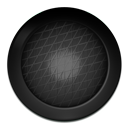
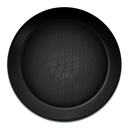
offline state visualization

Changed region(s): [[0.3438, 0.375, 0.6562, 0.6562]]

diff --git a/public/stylesheets/shoutbox.css b/public/stylesheets/shoutbox.css
@@ -606,7 +606,7 @@ html {
 }
 /* line 79, ../../views/stylesheets/partials/_groups.scss */
 #groups ul h3:before {
-  background: url('../images/traffic-lights-aba2b5672e.png') 50% -684px no-repeat;
+  background: url('../images/traffic-lights-b8f023a746.png') 50% -684px no-repeat;
   content: " ";
   display: block;
   height: 128px;
@@ -623,7 +623,7 @@ html {
 }
 /* line 89, ../../views/stylesheets/partials/_groups.scss */
 #groups ul .offline h3 {
-  background: url('../images/traffic-lights-aba2b5672e.png') 50% -228px no-repeat;
+  background: url('../images/traffic-lights-b8f023a746.png') 50% -228px no-repeat;
 }
 /* line 91, ../../views/stylesheets/partials/_groups.scss */
 #groups ul .offline h3:before {
